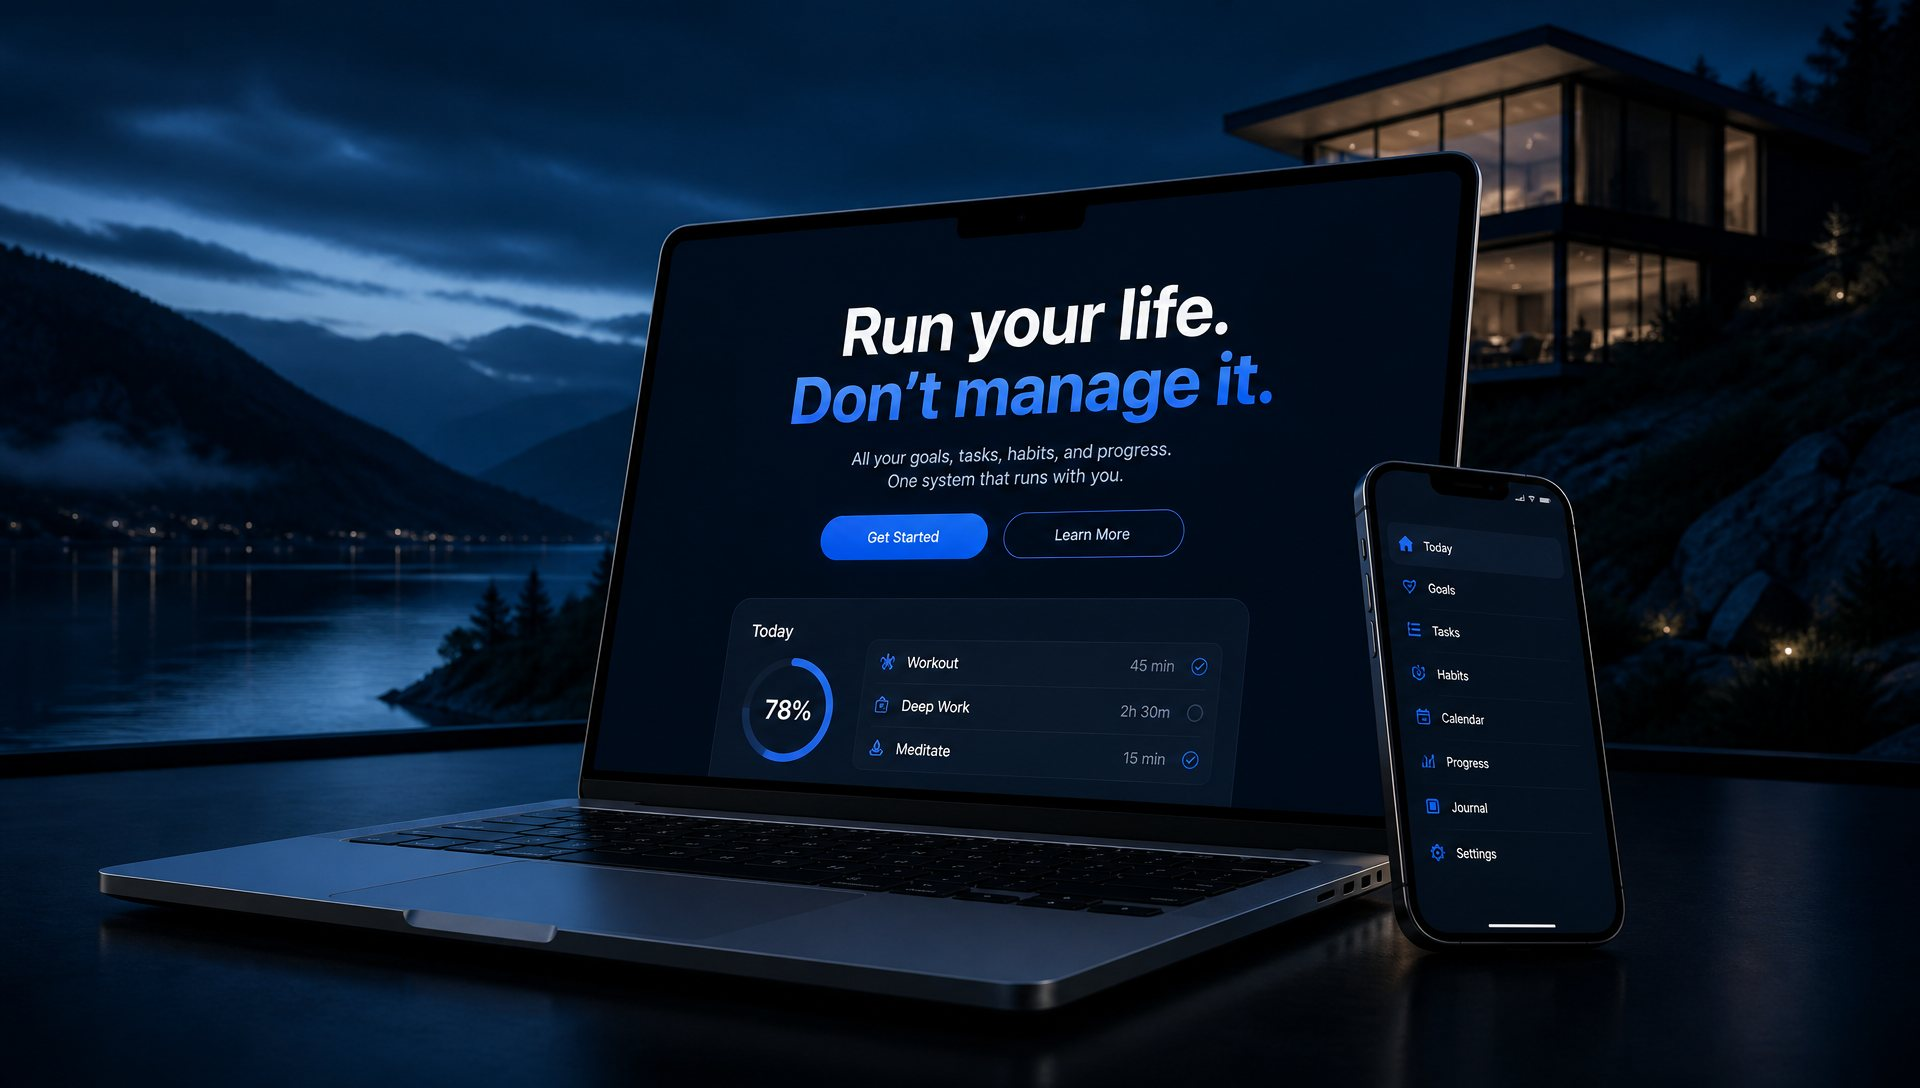
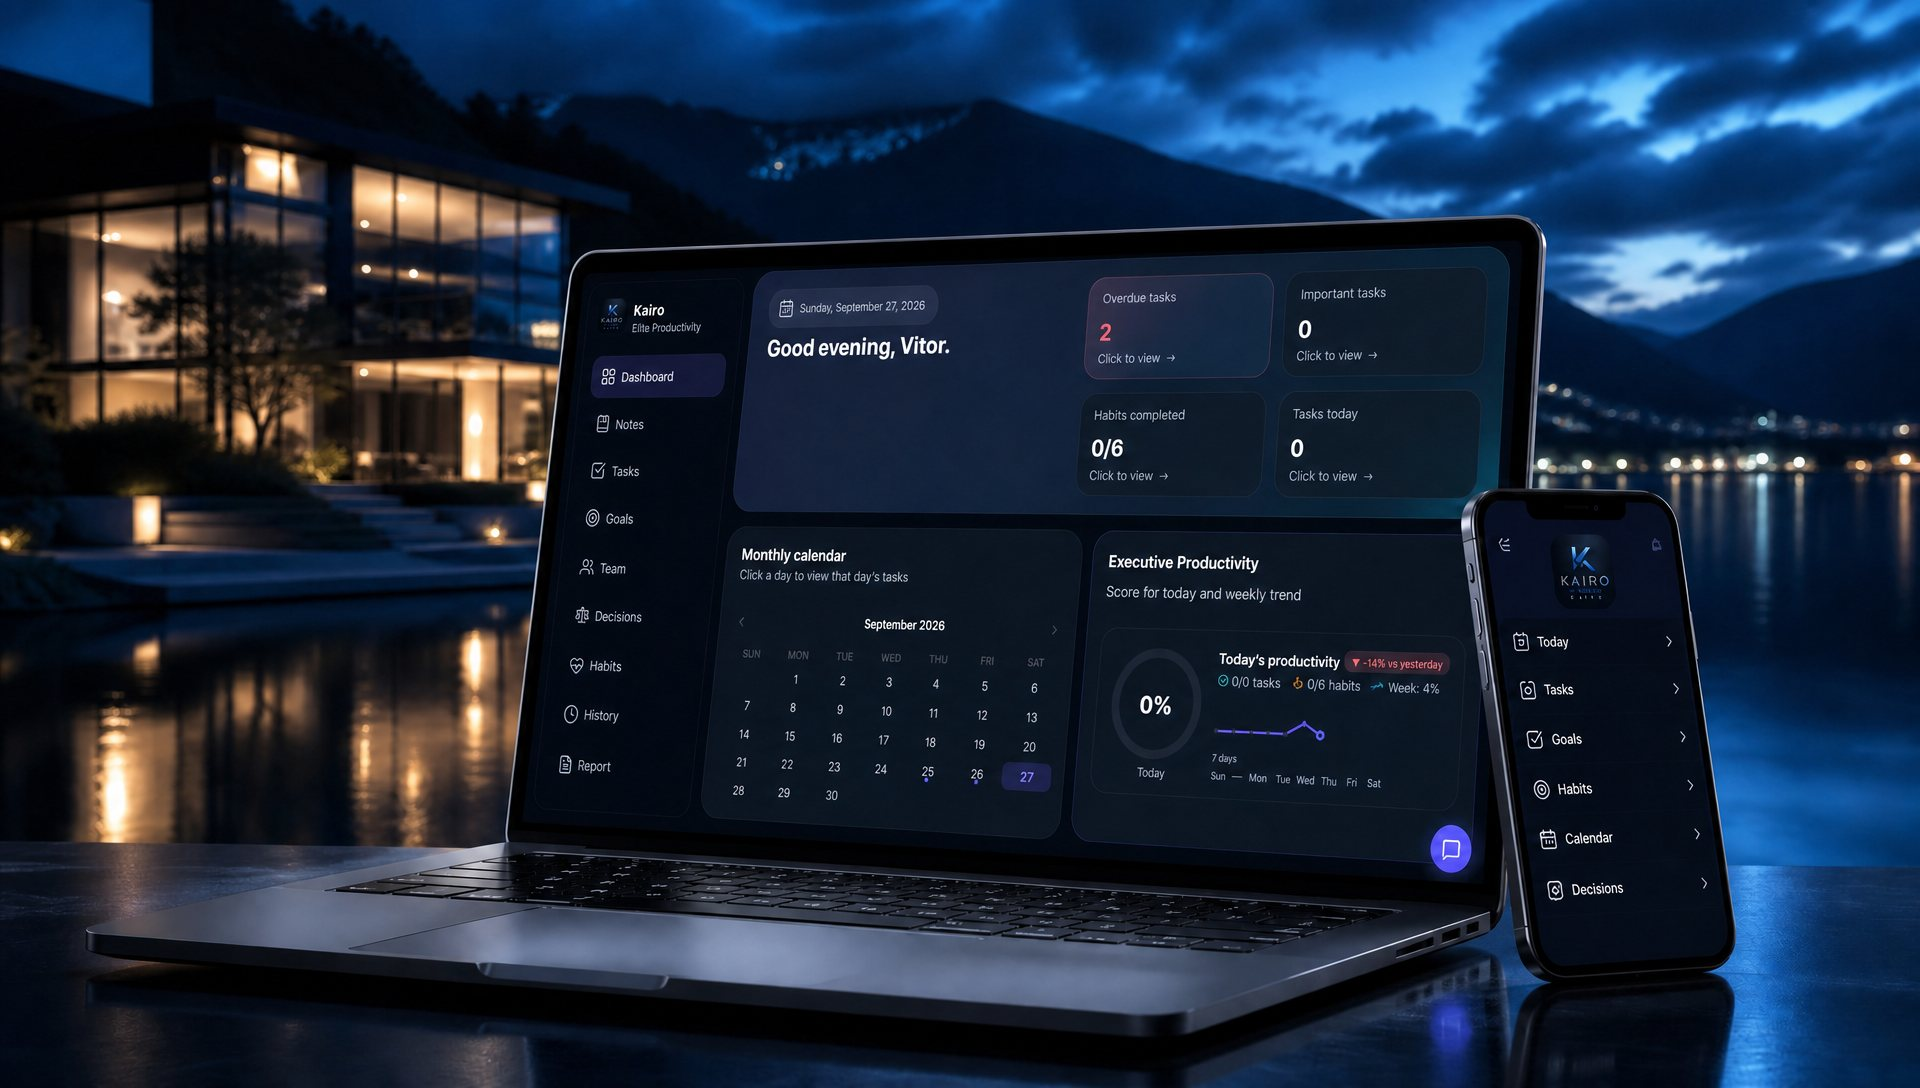
redesign hero: dashboard real da app no ecra + fundo mais vivo + CTAs em pilula flutuante (PT e EN)

diff --git a/index.html b/index.html
@@ -454,14 +454,19 @@
       position: absolute;
       left: 50%;
       transform: translateX(-50%);
-      bottom: 11%;
+      bottom: 4%;
       display: flex;
       gap: 14px;
       z-index: 3;
       margin-bottom: 0;
+      padding: 16px 26px;
+      border-radius: 100px;
+      background: rgba(2,8,23,0.55);
+      backdrop-filter: blur(10px);
+      border: 1px solid rgba(120,170,255,0.18);
     }
     @media (max-width: 900px) {
-      #hero .hero-ctas { bottom: 7%; flex-direction: column; align-items: center; }
+      #hero .hero-ctas { bottom: 4%; flex-direction: column; align-items: center; padding: 14px 20px; }
     }
     .hero-mockup {
       display: flex;

diff --git a/landing-en.html b/landing-en.html
@@ -454,14 +454,19 @@
       position: absolute;
       left: 50%;
       transform: translateX(-50%);
-      bottom: 11%;
+      bottom: 4%;
       display: flex;
       gap: 14px;
       z-index: 3;
       margin-bottom: 0;
+      padding: 16px 26px;
+      border-radius: 100px;
+      background: rgba(2,8,23,0.55);
+      backdrop-filter: blur(10px);
+      border: 1px solid rgba(120,170,255,0.18);
     }
     @media (max-width: 900px) {
-      #hero .hero-ctas { bottom: 7%; flex-direction: column; align-items: center; }
+      #hero .hero-ctas { bottom: 4%; flex-direction: column; align-items: center; padding: 14px 20px; }
     }
     .hero-mockup {
       display: flex;
